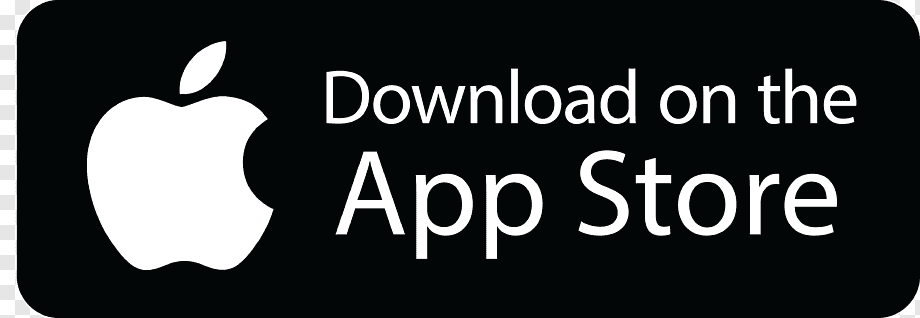
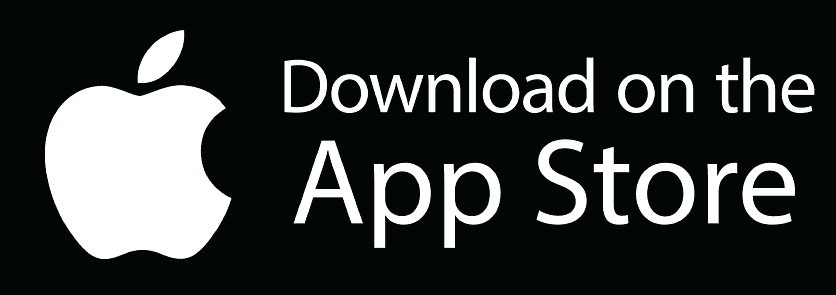
ajuste em botões

diff --git a/style.css b/style.css
@@ -94,12 +94,14 @@ input {
   border: solid 1px rgb(219 219 219);
   background: rgb(250 250 250);
 }
-button {
+.entrar {
   width: 100%;
   height: 30px;
 
   position: relative;
   top: 5px;
+  cursor: pointer;
+
   border: 1px;
   background: #74e3f1;
   border-radius: 7px;
@@ -133,6 +135,7 @@ button {
   text-align: center;
 }
 .login-facebook {
+  cursor: pointer;
   font-size: 14px;
   font-weight: 550;
   color: rgb(49, 128, 181);
@@ -184,16 +187,13 @@ button {
   justify-content: center;
 
   margin: 8px 0;
-  gap: 25px;
+  gap: 35px;
 }
-.os :first-child {
-  width: 150px;
-  height: 43px;
-}
-
-.os :last-child {
-  width: 150px;
-  height: 50px;
+.os :first-child,.os :last-child {
+  width: 130px;
+  height: 40px;
+  margin-top: 10px;
+  border-radius: 10px;
 }
 
 @media (max-width: 900px) {

diff --git a/index.html b/index.html
@@ -27,7 +27,7 @@
             <input type="password" placeholder="Senha" class=" password">
           </div>
           <div class="itens">
-            <button class="Entrar">Entrar</button>
+            <button class="entrar">Entrar</button>
           </div>
           <div class="itens option">
             <span class="ou">OU</span>
@@ -50,8 +50,8 @@
       <div class="download flex-column">
         <p>Obtenha o aplicativo.</p>
         <div class="os">
-          <img src="./imagens/apple-buttom.png">
-          <img src="./imagens/googleplay-buttom.png">
+         <img src="./imagens/apple-buttom.png">
+       <img src="./imagens/googleplay-buttom.png">
         </div>
       </div>
     </div>
